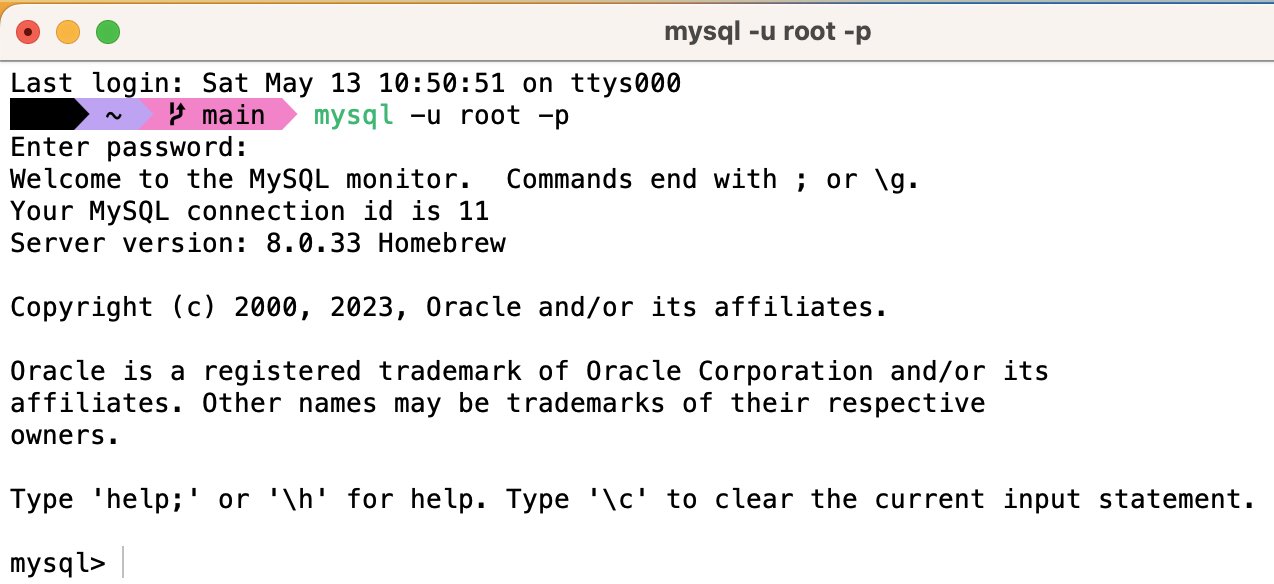
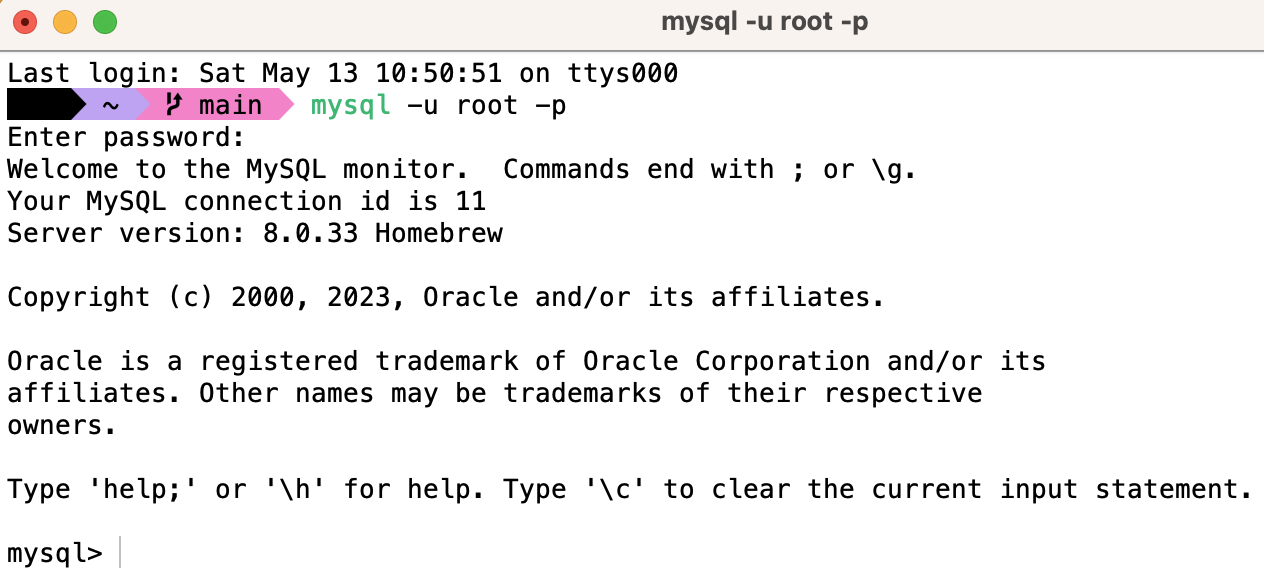
.

diff --git a/_posts/sql_study/2023-04-22-mysql사용법.md b/_posts/sql_study/2023-04-22-mysql사용법.md
@@ -16,7 +16,7 @@ mysql -u root -p
 
 비밀번호를 입력하면 접속<br>
 
-![mysql_0422_1.png](/assets/images/mysql_0422_1.png)
+![mysql_0422_1.png](/assets/images/mysql_0422_1.png){: width="90%" height="90%"}
 
 어떠한 DB가 있는지 확인.
 
@@ -220,7 +220,7 @@ FROM Book;
 ```
 결과는 다음과 같다.
 
-![mysql_0424_1.png](/assets/images/mysql_0424_1.png)
+![mysql_0424_1.png](/assets/images/mysql_0424_1.png){: width="10%" height="10%"}
 
 따라서 아래와 같은 결과가 나온다.
 
@@ -246,14 +246,14 @@ SELECT custid
 FROM Orders;
 ```
 
-![mysql_0424_2.png](/assets/images/mysql_0424_2.png)
+![mysql_0424_2.png](/assets/images/mysql_0424_2.png){: width="10%" height="10%"}
 
 결과를 보면 {1, 2, 3, 4}가 있는지를 알아보지만 IN연산자가 중복을 제거하는 것은 아니기에 <br>
 처리 과정속에서는 1이 있나? 3번 확인하고, 2가 있나? 2번 확인하고 이런 식으로 작동된다.
 
 어쩌면 process는 다음과 같을지도 모른다.
 
-![mysql_0424_3.png](/assets/images/mysql_0424_3.png)
+![mysql_0424_3.png](/assets/images/mysql_0424_3.png){: width="40%" height="40%"}
 
 - 응용2<br>
 3개 이상의 중첩도 가능하다.
